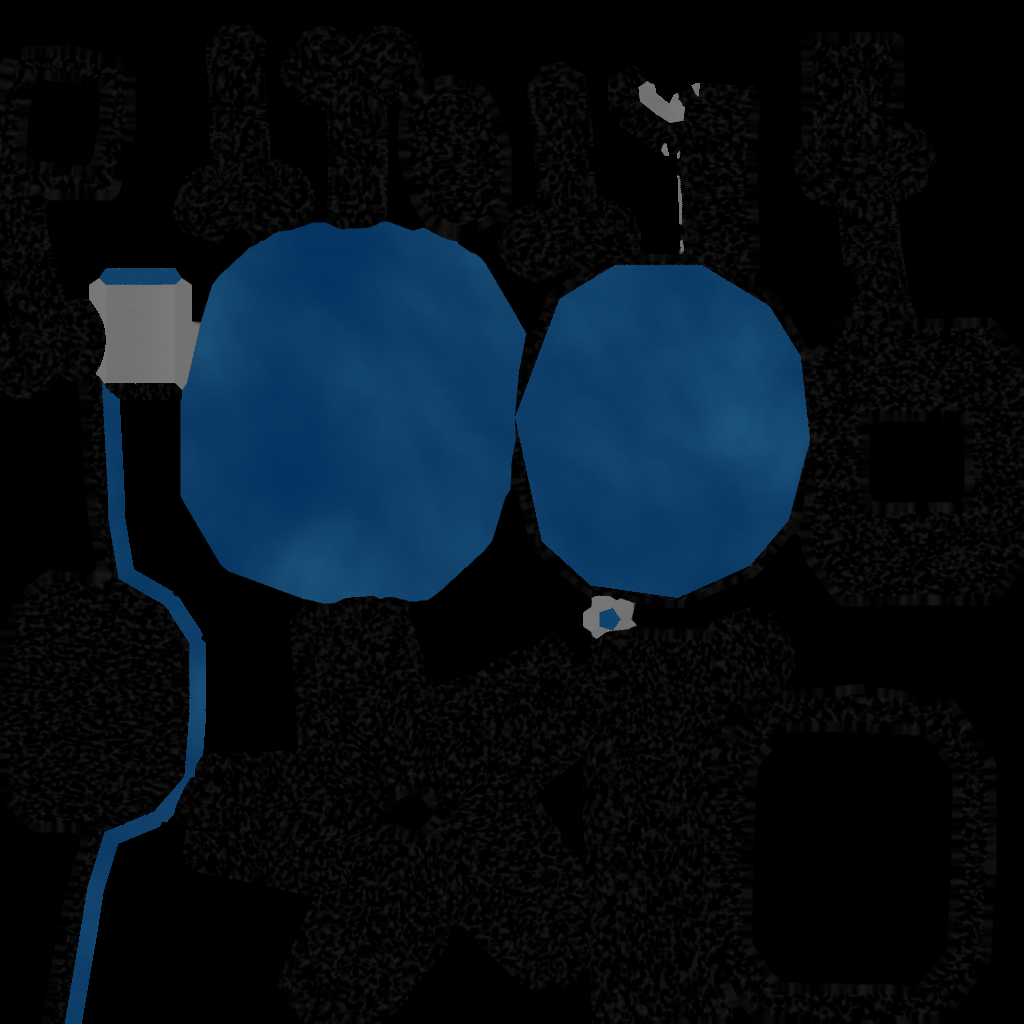
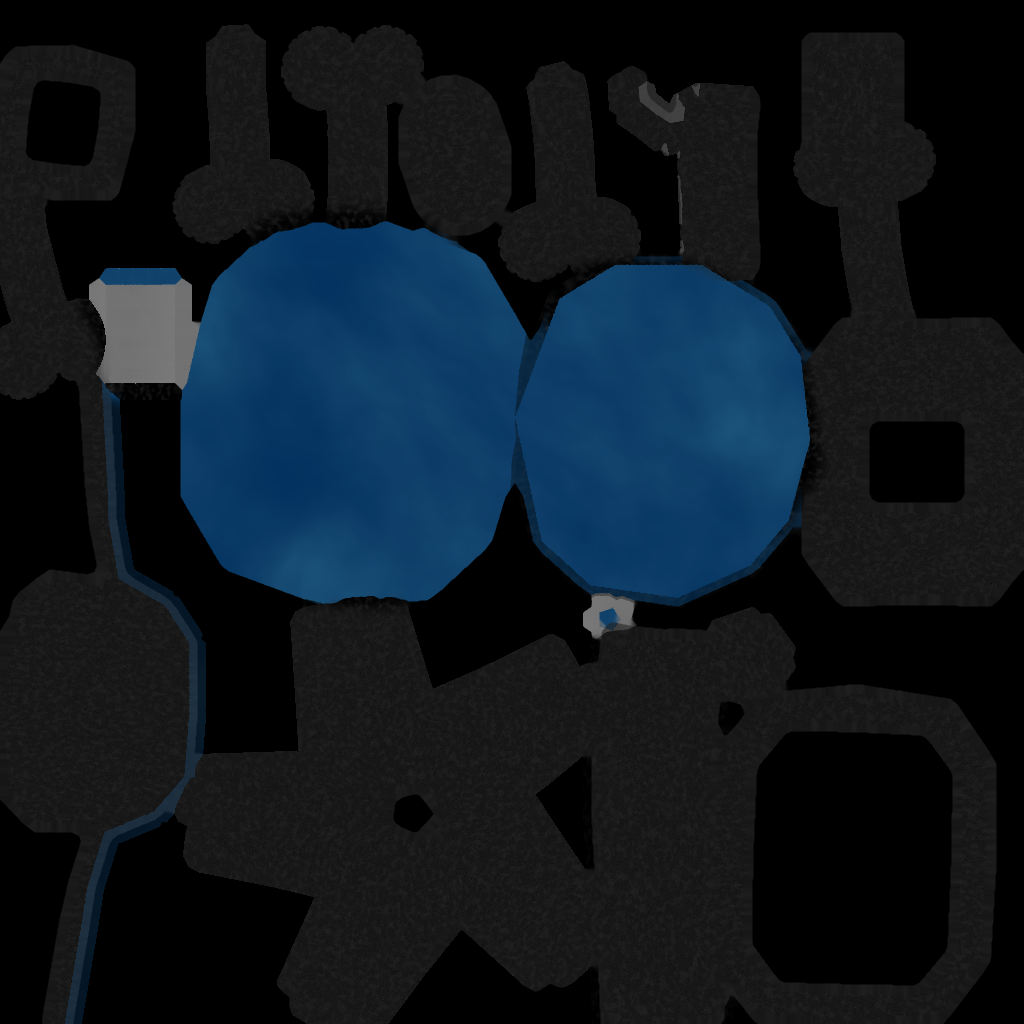
ライトとカメラの感度を修正

diff --git a/project/application/Scene/TD3_4month/ShadowGameScene.cpp b/project/application/Scene/TD3_4month/ShadowGameScene.cpp
@@ -285,21 +285,21 @@ void ShadowGameScene::InitializeLights()
     spotLights_[1] = flashlight_->GetSpotLight();
     areaLights_[2] = vendingMac_->GetAreaLight();
 
-    activePointLightCount_ = 2;
-    pointLights_[0].color = { 1.0f, 1.0f, 1.0f, 1.0f };
-    pointLights_[0].position = { 7.0f, 0.0f, 0.0f };
-    pointLights_[0].intensity = 1.0f;
-    pointLights_[0].radius = 10.0f;
-    pointLights_[0].decay = 1.0f;
-    pointLights_[1].color = { 1.0f, 0.0f, 0.0f, 1.0f };
-    pointLights_[1].position = { 5.0f, 5.0f, 5.0f };
-    pointLights_[1].intensity = 1.0f;
-    pointLights_[1].radius = 10.0f;
-    pointLights_[1].decay = 1.0f;
+    activePointLightCount_ = 0;
+    //pointLights_[0].color = { 1.0f, 1.0f, 1.0f, 1.0f };
+    //pointLights_[0].position = { 7.0f, 0.0f, 0.0f };
+    //pointLights_[0].intensity = 1.0f;
+    //pointLights_[0].radius = 10.0f;
+    //pointLights_[0].decay = 1.0f;
+    //pointLights_[1].color = { 1.0f, 0.0f, 0.0f, 1.0f };
+    //pointLights_[1].position = { 5.0f, 5.0f, 5.0f };
+    //pointLights_[1].intensity = 1.0f;
+    //pointLights_[1].radius = 10.0f;
+    //pointLights_[1].decay = 1.0f;
 
-    directionalLight_.color = { 1.0f, 1.0f, 1.0f, 1.0f };
+    directionalLight_.color = { 1.0f, 1.0f, 0.75f, 1.0f };
     directionalLight_.direction = { 0.0f, 1.0f, 0.0f };
-    directionalLight_.intensity = 0.1f;
+    directionalLight_.intensity = 0.25f;
 
     activeSpotLightCount_ = 2;
     spotLights_[0].color = { 1.0f, 1.0f, 1.0f, 1.0f };
@@ -316,19 +316,19 @@ void ShadowGameScene::InitializeLights()
     areaLights_[0].position = { 7.0f, 3.0f, 0.0f };
     areaLights_[0].normal = { 0.0f, 1.0f, 0.0f };
     areaLights_[0].intensity = 10.0f;
-    areaLights_[0].width = 2.0f;
-    areaLights_[0].height = 2.0f;
-    areaLights_[0].radius = 5.0f;
-    areaLights_[0].decay = 2.0f;
+    areaLights_[0].width = 4.0f;
+    areaLights_[0].height = 0.1f;
+    areaLights_[0].radius = 30.0f;
+    areaLights_[0].decay = 0.01f;
 
     areaLights_[1].color = { 1.0f, 1.0f, 1.0f, 1.0f };
     areaLights_[1].position = { -7.0f, 3.0f, 0.0f };
     areaLights_[1].normal = { 0.0f, 1.0f, 0.0f };
     areaLights_[1].intensity = 10.0f;
-    areaLights_[1].width = 2.0f;
-    areaLights_[1].height = 2.0f;
-    areaLights_[1].radius = 5.0f;
-    areaLights_[1].decay = 2.0f;
+    areaLights_[1].width = 4.0f;
+    areaLights_[1].height = 0.1f;
+    areaLights_[1].radius = 30.0f;
+    areaLights_[1].decay = 0.01f;
 
 }
 #pragma region //private更新処理

diff --git a/project/application/GameObject/Chair/Chair.cpp b/project/application/GameObject/Chair/Chair.cpp
@@ -16,7 +16,7 @@ Chair::Chair()
     obj_->SetModel("chair");
     SetAABB({ .min = {-0.125f,0.0f,-0.125f},.max = {0.125f,0.5f,0.125f} });
     SetCollisionAttribute(kCollisionChair);
-    SetCollisionMask(kCollisionPlayer | kCollisionFloor | kCollisionChair | kCollisionKey);
+    SetCollisionMask(kCollisionPlayer | kCollisionFloor | kCollisionChair | kCollisionKey|kCollisionWall);
 }
 
 void Chair::OnCollision(Collider* collider)
@@ -154,10 +154,12 @@ void Chair::Grab()
     if (isGrab_ && PlayerCommand::GetIsGrab()) {
         // カーソルに追従させて持ち上げる処理
         Vector3 origin = playerCamera_->GetTransform().translate;
-        origin.y -= 0.5f;
-        transform_.translate = origin + (Function::Normalize(playerCamera_->GetRay().diff));
+        origin.y -= 1.5f;
+        transform_.translate = origin + playerCamera_->GetRay().diff*1.5f;
         transform_.translate.y = (std::max)(transform_.translate.y, 0.0f);
         velocity_.y = 0.0f;
+        transform_.rotate.y = playerCamera_->GetTransform().rotate.y;
+
     } else {
         const float deltaTime = Object3dCommon::GetInstance()->GetDxCommon()->GetDeltaTime();
         velocity_.y -= YoshidaMath::kGravity * deltaTime;

diff --git a/project/application/Scene/Game/Game.cpp b/project/application/Scene/Game/Game.cpp
@@ -14,13 +14,13 @@ void Game::Initialize() {
 	//フリータイプの初期化
 	FreeTypeManager::Initialize();
 
-	SceneManager::GetInstance()->ChangeScene("Title");
+	//SceneManager::GetInstance()->ChangeScene("Title");
 	/*SceneManager::GetInstance()->ChangeScene("Sample");*/
 	//SceneManager::GetInstance()->ChangeScene("Game");
 	//SceneManager::GetInstance()->ChangeScene("Result");
 	/*SceneManager::GetInstance()->ChangeScene("Tutorial");*/
 	//4か月開発のシーンの作成
-	//SceneManager::GetInstance()->ChangeScene("ShadowGame");
+	SceneManager::GetInstance()->ChangeScene("ShadowGame");
 	SEManager::Load();
 }
 

diff --git a/project/application/GameObject/Wall/Wall.cpp b/project/application/GameObject/Wall/Wall.cpp
@@ -10,7 +10,7 @@ Wall::Wall()
     Vector3 halfScale = Vector3{ 1.0f,1.0f,1.0f } *0.5f;
     SetAABB({ .min = -halfScale,.max = halfScale });
     SetCollisionAttribute(kCollisionWall);
-    SetCollisionMask(kCollisionPlayer|kCollisionEnemy|kCollisionKey);
+    SetCollisionMask(kCollisionPlayer|kCollisionEnemy|kCollisionKey|kCollisionChair);
 }
 
 

diff --git a/project/application/GameObject/Wall/WallManager.cpp b/project/application/GameObject/Wall/WallManager.cpp
@@ -22,8 +22,8 @@ WallManager::WallManager()
     areaLight_.intensity = 1.0f;
     areaLight_.width = 10.0f;
     areaLight_.height = 4.0f;
-    areaLight_.radius = 10.0f;
-    areaLight_.decay = 4.0f;
+    areaLight_.radius = 40.0f;
+    areaLight_.decay = 0.1f;
 
     plane_ = std::make_unique<Primitive>();
 }

diff --git a/project/application/GameObject/GameCamera/PlayerCamera/PlayerCamera.h b/project/application/GameObject/GameCamera/PlayerCamera/PlayerCamera.h
@@ -34,7 +34,7 @@ private:
     //カメラの設定
     std::unique_ptr<Camera> camera_ = nullptr;
     //カメラの感度
-    float eyeRotateSpeed_ = 0.3f;
+    float eyeRotateSpeed_ = 0.02f;
     //raySprite
     std::unique_ptr<RaySprite> raySprite_ = nullptr;
     Player* player_ = nullptr;

diff --git a/project/application/GameObject/Flashlight/Flashlight.cpp b/project/application/GameObject/Flashlight/Flashlight.cpp
@@ -131,7 +131,7 @@ void Flashlight::UpdateSpotLight()
 {
     spotLight_.position = GetWorldPosition();
     spotLight_.direction = -YoshidaMath::GetForward(obj_->GetWorldMatrix());
-    spotLight_.intensity = 10.0f;
+    spotLight_.intensity = 1.0f;
 
 }
 
